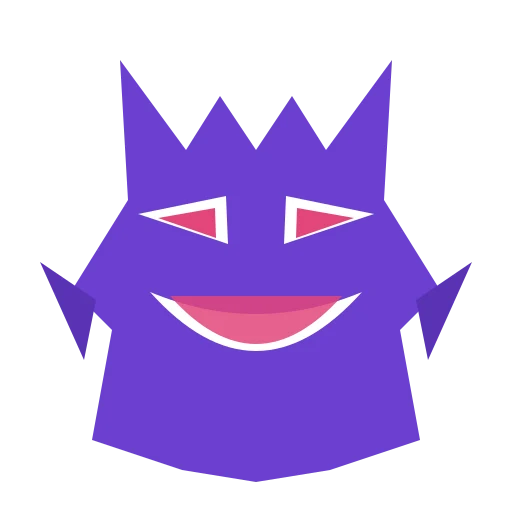
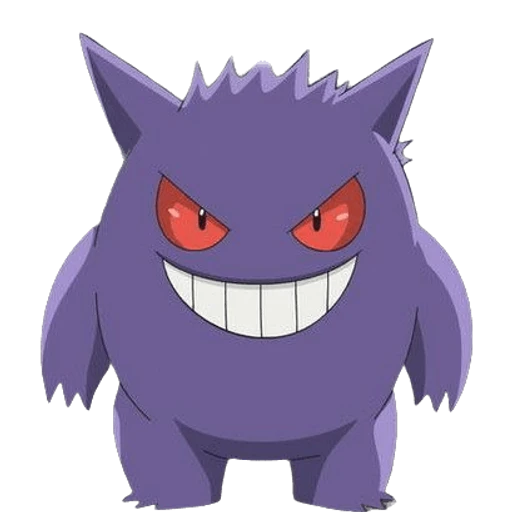
Mascots: real Psyduck and Gengar art with backgrounds removed
- Gengar: AI cut-out of the user's image, faint wallpaper haze filtered out.
- Psyduck: the AI models erased the yellow body, so the flat grey disc was
  color-keyed out instead; pixels of the character are untouched.
- App icons regenerated from the Psyduck art; service worker cache v2 so
  installed apps pick up the new icons.
- Drop the placeholder generator so it can't overwrite the real art.

diff --git a/public/sw.js b/public/sw.js
@@ -1,5 +1,5 @@
 // Plain-JS service worker (no bundler). Bump VERSION to invalidate old caches.
-const VERSION = "v1";
+const VERSION = "v2";
 const SHELL_CACHE = `shell-${VERSION}`;
 const STATIC_CACHE = `static-${VERSION}`;
 const OFFLINE_URL = "/offline";
